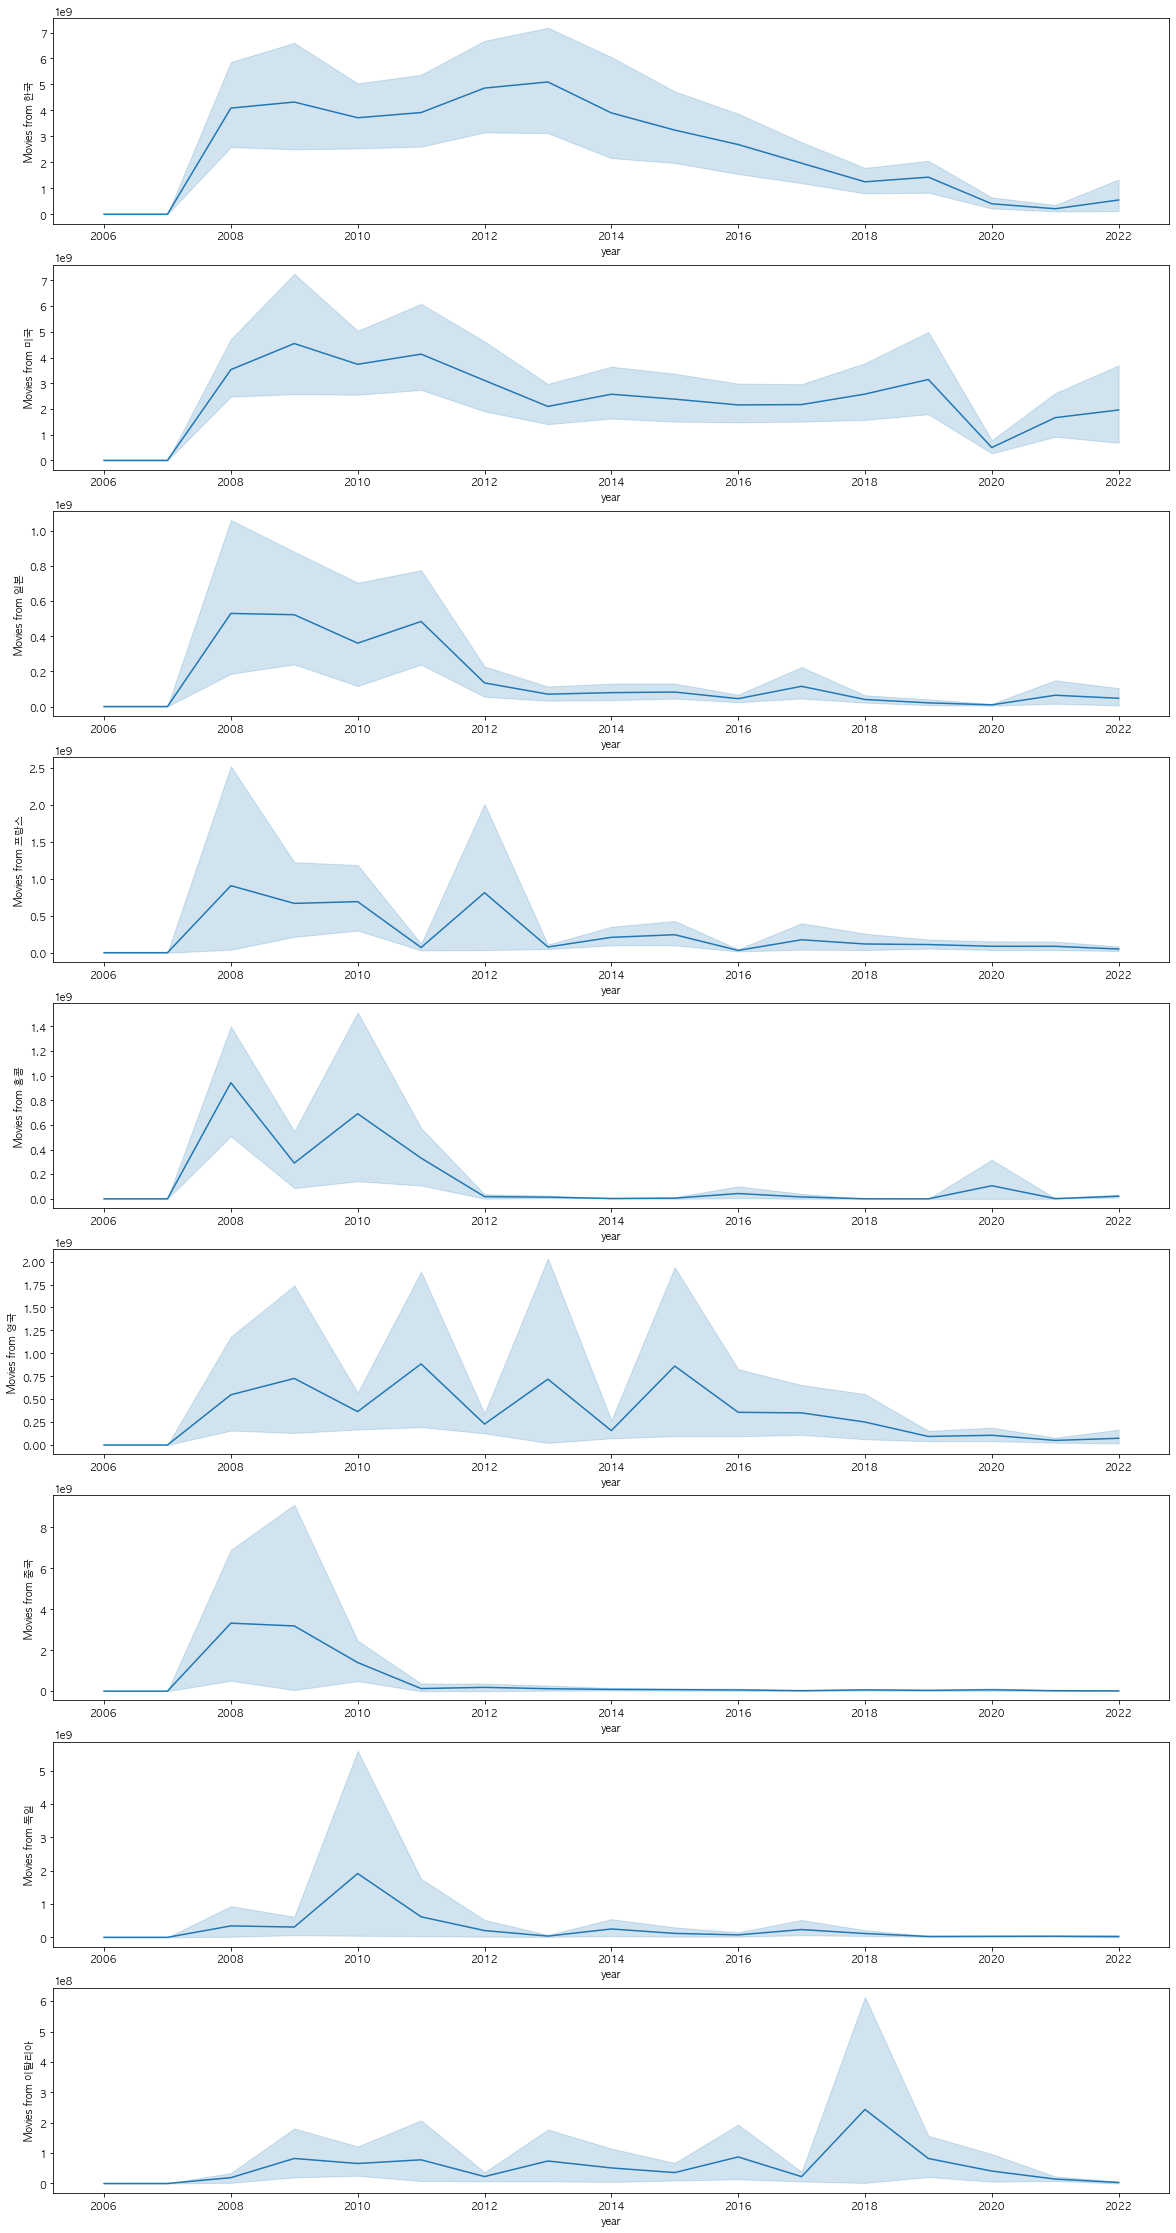
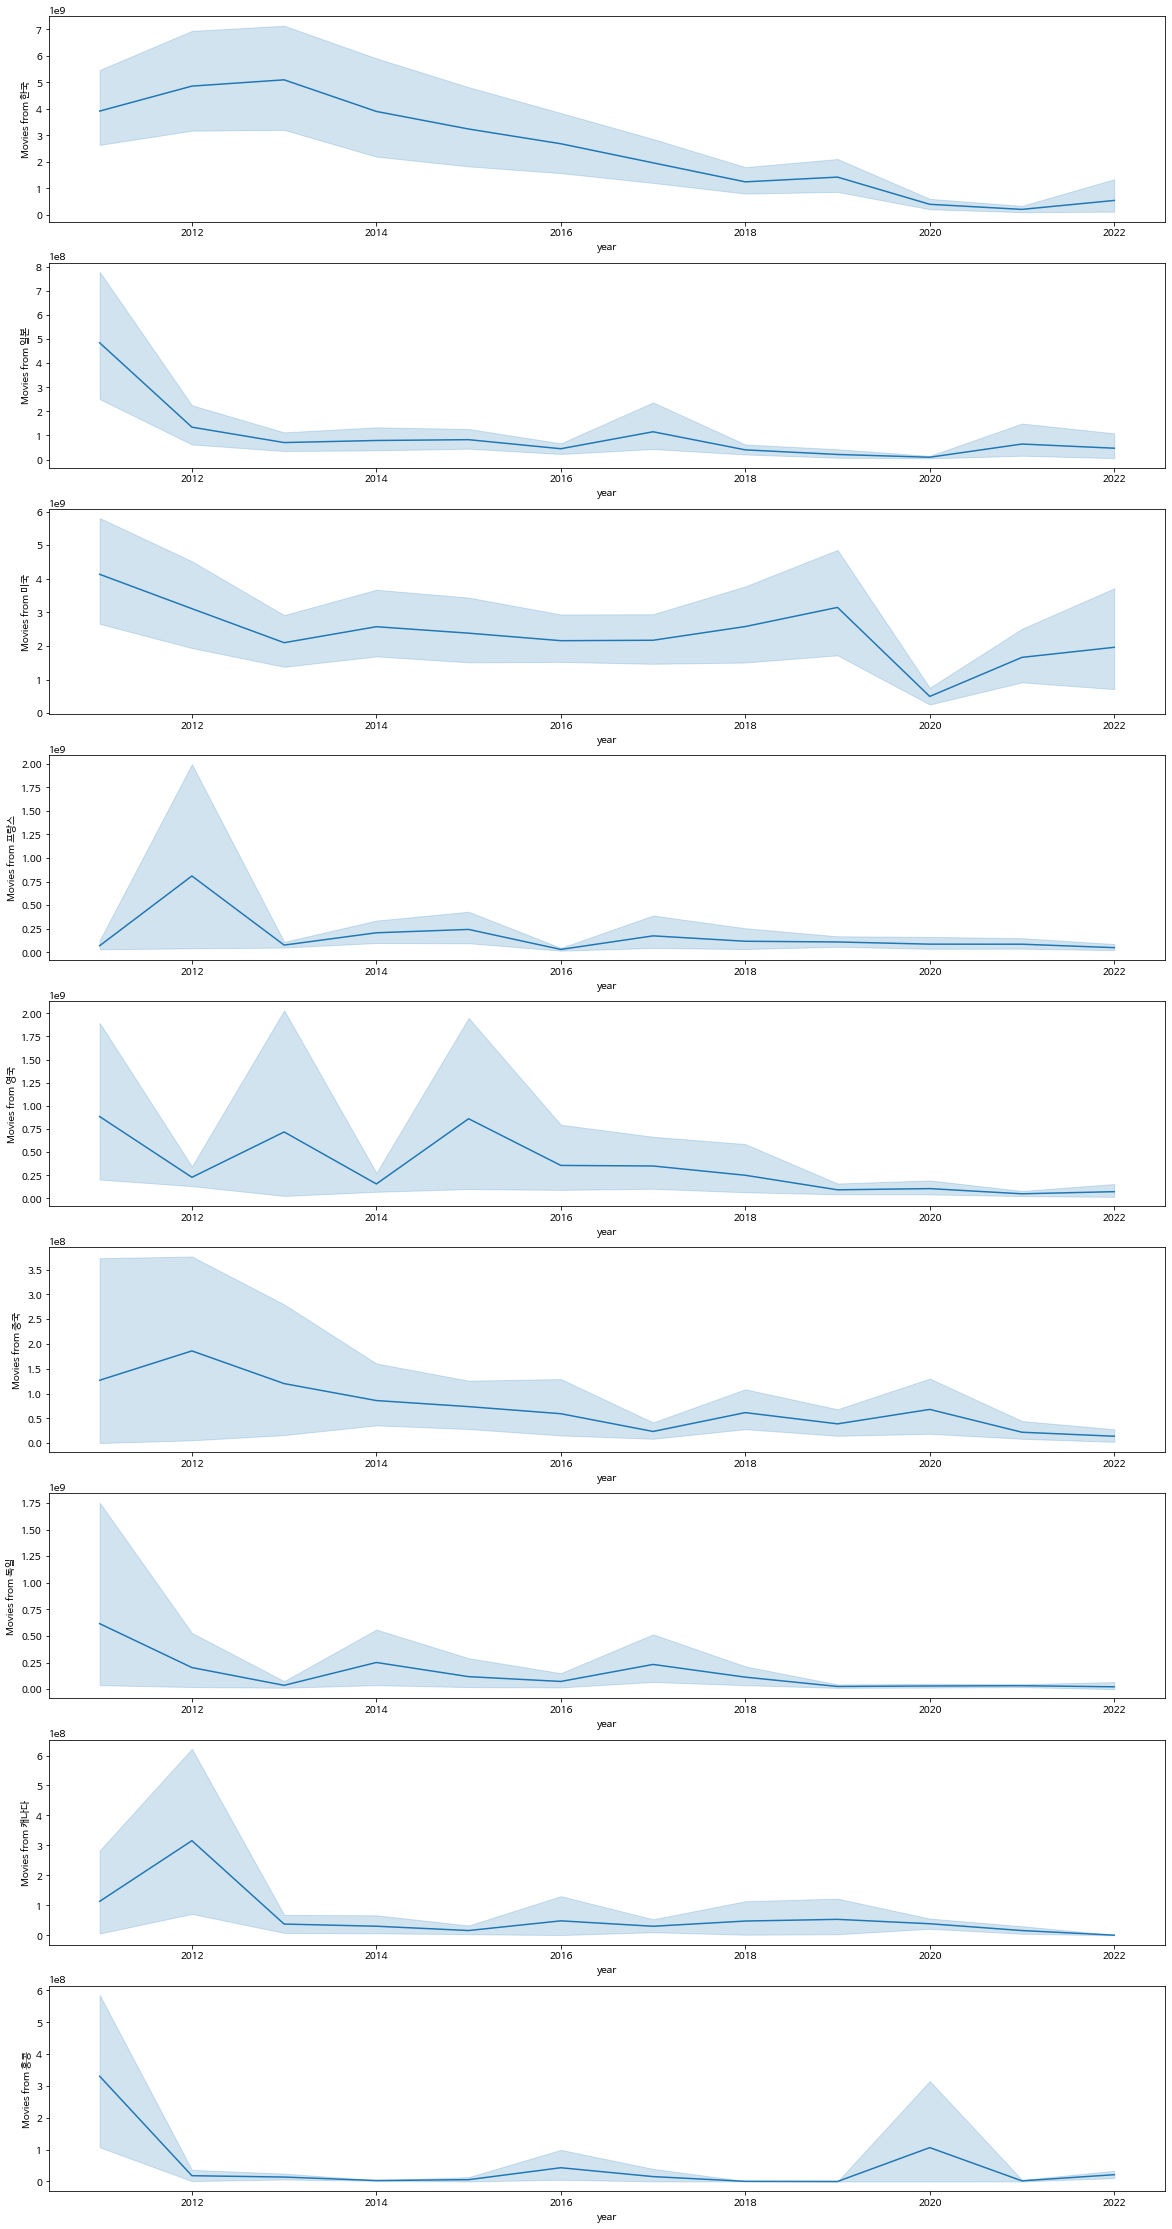
data and graph

diff --git a/_posts/2022-07-28-graph.md b/_posts/2022-07-28-graph.md
@@ -5,43 +5,70 @@ mathjax: true
 ---
 
 
+## 1. 각 국가 영화별 국내관객 분포 비교분석
+* 'National_Audience' (전국 관객)
+* 'National_number_screens' (전국 스크린 수)
+* 'National_Sales' (전국 매출액)
+* 'National_Audience' (전국 관객)
+* 'Seoul_Sales' (서울 매출액)
+* 'Seoul_Audience' (서울 관객)
 
 
-## graphs of every country according to 'National_Audience', 'National_number_screens', 'National_Sales','National_Audience', 'Seoul_Sales', 'Seoul_Audience' 
 ![](https://raw.githubusercontent.com/danielsun888/danielsun888.github.io/main/_posts/graph/daniel_1_1.png )
-![](https://raw.githubusercontent.com/danielsun888/danielsun888.github.io/main/_posts/graph/daniel_1_2.png )
-## Genre graphs from popular 9 countries
-![](https://raw.githubusercontent.com/danielsun888/danielsun888.github.io/main/_posts/graph/daniel_2_1.png )
-![](graph/daniel_2_2.png )
+>> 국내 개봉 영화중 한국과 미국 영화가 스크린수, 매출액, 관객수가 1,2위로 가장 많습니다.
 
-## rating difference in top movie countries 
+## 2. 주요 국가 영화별 장르 분포 
+![](https://raw.githubusercontent.com/danielsun888/danielsun888.github.io/main/_posts/graph/daniel_2_1.png )
+>> 국내 개봉 영화중 일본과 한국은 멜로 로맨스영화가 가장 많은 분포를 보이고 프랑스, 영국은 드라마가 강세입니다. 반면 미국, 중국, 캐나다, 홍콩은 액션장르가 두드러집니다.
+
+## 3. 주요 국가 영화별 연령 제한 분포 비교
 ![](https://raw.githubusercontent.com/danielsun888/danielsun888.github.io/main/_posts/graph/daniel_3_1.png )
 
-## top movies in the top movie country list
+>> 국가별로 영화별 4가지 연령 제한 분포를 비교해 시각화 했습니다. 
+
+## 4. 주요 국가 영화별 인기 top10 영화
 ![](https://raw.githubusercontent.com/danielsun888/danielsun888.github.io/main/_posts/graph/daniel_4_1.png )
-## top movie country's popular word in top movies
+>>한국, 일본, 미국, 프랑스, 영국, 중국, 독일, 캐나다, 홍콩 9개 국가별 국내 개봉 영화중 관객수 순 10 개 인기 영화를 시각화했습니다. 
 
-![](https://raw.githubusercontent.com/danielsun888/danielsun888.github.io/main/_posts/graph/wordcloud_%EB%8F%85%EC%9D%BC.png )
-![](https://raw.githubusercontent.com/danielsun888/danielsun888.github.io/main/_posts/graph/wordcloud_%EB%AF%B8%EA%B5%AD.png )
-![](https://raw.githubusercontent.com/danielsun888/danielsun888.github.io/main/_posts/graph/wordcloud_%EC%98%81%EA%B5%AD.png )
-![](https://raw.githubusercontent.com/danielsun888/danielsun888.github.io/main/_posts/graph/wordcloud_%EC%9D%B4%ED%83%88%EB%A6%AC%EC%95%84.png )
-![](https://raw.githubusercontent.com/danielsun888/danielsun888.github.io/main/_posts/graph/wordcloud_%EC%9D%BC%EB%B3%B8.png )
-![](https://raw.githubusercontent.com/danielsun888/danielsun888.github.io/main/_posts/graph/wordcloud_%EC%A4%91%EA%B5%AD.png )
-![](https://raw.githubusercontent.com/danielsun888/danielsun888.github.io/main/_posts/graph/wordcloud_%ED%94%84%EB%9E%91%EC%8A%A4.png )
-![](https://raw.githubusercontent.com/danielsun888/danielsun888.github.io/main/_posts/graph/wordcloud_%ED%95%9C%EA%B5%AD.png )
-![](https://raw.githubusercontent.com/danielsun888/danielsun888.github.io/main/_posts/graph/wordcloud_%ED%99%8D%EC%BD%A9.png )
 
-## yearly changes of movie numbers of top movie countries 
+## 5. 국내 개봉 영화 국가별 워드 클라우드
 
+![](https://raw.githubusercontent.com/danielsun888/danielsun888.github.io/main/_posts/graph/daniel_wordcloud.png )
+>>한국, 일본, 미국, 프랑스, 영국, 중국, 독일, 캐나다, 홍콩 9 개 국가별로 국내 개봉영화의 워드 클라우드를 시각화했습니다. 일본은 역시 애니메이션이 두드러집니다.
+
+
+## 6. 연도에 따른 주요 국가별 영화 개봉수 추이
 
 ![](https://raw.githubusercontent.com/danielsun888/danielsun888.github.io/main/_posts/graph/daniel_5_1.png )
-## comparing the distribution of movies in different countries
+>> 20년에 들어 미국을 제외하고 전반적으로 개봉 영화수가 감소하는 추세입니다. 
+
+## 7. 국가별 국내 개봉 영화 분포 비교 
 ![](https://raw.githubusercontent.com/danielsun888/danielsun888.github.io/main/_posts/graph/daniel_6_1.png )
 
+>>국내 개봉영화로는 한국, 미국, 영국, 일본 순으로 많습니다.
 
-## distribution graphs
-![](https://raw.githubusercontent.com/danielsun888/danielsun888.github.io/main/_posts/graph/daniel_7_1.png )
-![](https://raw.githubusercontent.com/danielsun888/danielsun888.github.io/main/_posts/graph/daniel_7_2.png )
+
+## 8. 연도별 변화 비교분석
+### : 'National_Sales', 'National_Audience', 'Release_Year'
+
+* [연도별 장르 수요 추이]
+![](https://raw.githubusercontent.com/danielsun888/danielsun888.github.io/main/_posts/graph/jiwon_1_1.png)
+* [연도별 전국 관객 추이]
+![](https://raw.githubusercontent.com/danielsun888/danielsun888.github.io/main/_posts/graph/jiwon_1_2.png)
+
+>>2011년 이후로 현재 2022년까지의 연도별로 전국매출액과 관객을 비교 분석해 보았습니다. 
+
+## 9. 연도별 전국 관객 장르 수요 분석
+###  :'National_Audience','year', 'Genre'
+
+* [연도별 국내개봉 영화 장르 관객 분포 비교]
+![](https://raw.githubusercontent.com/danielsun888/danielsun888.github.io/main/_posts/graph/jiwon_3_1.png)
+
+*  [연도별 국내개봉 영화 장르 관객 분포(비율)]
+![](https://raw.githubusercontent.com/danielsun888/danielsun888.github.io/main/_posts/graph/jiwon_3_2.png)
+
+>>코로나가 시작한 2020년을 기점으로 관객수가 확연히 줄어든 것이 보입니다. 이와 마찬가지로 코미디,판타지 장르의 영화의 수가 줄어든 것을 확인할수 있습나다. 
+
 
 ## GIthub code
 

diff --git a/_posts/2022-07-28-data.md b/_posts/2022-07-28-data.md
@@ -1,0 +1,88 @@
+---
+layout: article
+title:  data 
+mathjax: true
+---
+
+# Dataton - 대구 캠퍼스
+
+## EagleAI
+
+김용훈, 최지원, Daniel  
+
+### 데이터 EDA
+
+![00](https://raw.githubusercontent.com/danielsun888/danielsun888.github.io/main/_posts/graph/kyh_d_1_head.png )  
+데이터는 영화관 입장권 통합 전산망입니다.  
+크기는 26197행, 18열 입니다.  
+행이 각각의 영화들이며  
+열은 영화제목, 감독, 관련 회사들, 전국과 서울의 관객과 매출액 등이 있습니다.
+
+중점적으로 볼 columns입니다.  
+* Movie_Name : 영화 이름
+* Relase_Date : 개봉 일자
+* Nationality : 국적
+* National_Sales : 전국 매출액
+* National_Audience : 전국 관객수
+* Rating : 등급
+
+* 해당 열만 표시한 경우입니다.  
+![](https://raw.githubusercontent.com/danielsun888/danielsun888.github.io/main/_posts/graph/kyh_d_2_colum_used.png )  
+
+* 서로 다른 값의 개수를 열마다 나타냅니다.  
+![](https://raw.githubusercontent.com/danielsun888/danielsun888.github.io/main/_posts/graph/kyh_g_1_colexplain.png )  
+
+결측치를 확인해보겠습니다.  
+
+* 행의 NULL 값  
+![](https://raw.githubusercontent.com/danielsun888/danielsun888.github.io/main/_posts/graph/kyh_g_2_row_null.png )  
+null 값을 가지는 행의 개수를 null 개수 별로 시각화했습니다.  
+5개 이상인 경우도 시각화하였습니다.  
+
+* 열의 NULL 값  
+![](https://raw.githubusercontent.com/danielsun888/danielsun888.github.io/main/_posts/graph/kyh_g_3_col_null.png )  
+
+### 데이터 전처리
+
+1. NULL 값을 5개 이상 가지는 행을 삭제합니다.
+2. NULL 값을 가지는 숫자열에 NULL 값을 0으로 채웁니다.
+3. String 값을 가지는 열에 No_열이름으로 NULL 값을 채웁니다.
+4. Nationality의 NULL 값은 직접 찾아서 채웁니다.
+   * 변경 전  
+![](https://raw.githubusercontent.com/danielsun888/danielsun888.github.io/main/_posts/graph/kyh_d_3_Nationality_null_before.png )  
+   * 변경 후  
+![](https://raw.githubusercontent.com/danielsun888/danielsun888.github.io/main/_posts/graph/kyh_d_4_Nationality_null_after.png )  
+5. Rating은 원래 있던 값을 적은 수의 카테고리로 분류화한 csv 파일을 이용해 변경합니다.
+* 변경 전  
+![](https://raw.githubusercontent.com/danielsun888/danielsun888.github.io/main/_posts/graph/kyh_d_5_Rating_before.png )  
+* 새로운 csv  
+![](https://raw.githubusercontent.com/danielsun888/danielsun888.github.io/main/_posts/graph/kyh_d_6_Rating_newCSV.png )  
+* 변경 후  
+![](https://raw.githubusercontent.com/danielsun888/danielsun888.github.io/main/_posts/graph/kyh_d_7_Rating_after.png )   
+6. Release_Date는 datetime으로 바꾼 뒤
+   year, month, day로 나누고 삭제합니다.  
+![](https://raw.githubusercontent.com/danielsun888/danielsun888.github.io/main/_posts/graph/kyh_d_8_dattime.png )  
+
+이제 NULL 값이 얼마나 있는지 출력해보면  
+![](https://raw.githubusercontent.com/danielsun888/danielsun888.github.io/main/_posts/graph/kyh_g_4_null_last.png )  
+없습니다.  
+
+### 데이터 이상치 제거
+관심있는 열 중에서 이상치를 확인합니다.  
+먼저 숫자열들이 이상치로 의심되는 0값이 경우를 확인합니다.  
+* 숫자 열의 0의 개수  
+![](https://raw.githubusercontent.com/danielsun888/danielsun888.github.io/main/_posts/graph/kyh_g_5_numeric_0_before.png )  
+
+해당 0은 2가지 의미가 있습니다.  
+실제로 0인 경우와 통계를 받지 못해 0인 경우입니다.  
+예시입니다.  
+![](https://raw.githubusercontent.com/danielsun888/danielsun888.github.io/main/_posts/graph/kyh_d_9_problem_0.png )  
+
+메타데이터를 찾아보니  
+2011년부터는 통합전산망을 기준으로 일정한 주기(매월, 매년)로 마감 처리하여 산출되는 통계정보라 되어있습니다.  
+그래서 제대로 정리된 2011년 부터의 데이터를 사용하겠습니다.  
+
+바뀐 데이터로 0인 개수를 출력해보겠습니다.  
+![](https://raw.githubusercontent.com/danielsun888/danielsun888.github.io/main/_posts/graph/kyh_g_6_numeric_0_after.png )  
+
+이제 지표들에 따른 시각화를 보겠습니다.  
